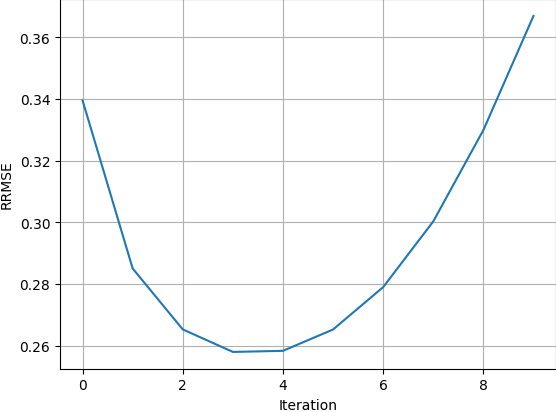
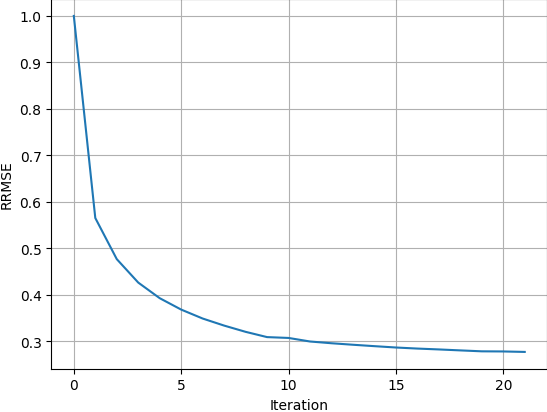
done

diff --git a/q4/q4.py b/q4/q4.py
@@ -54,6 +54,7 @@ def myART(ordered_projections, lr, num_iterations=100, min_t=-255):
     global image1, rrmses, sinogram
     reconstructed_image = np.zeros(image1.shape)
     num_projections = ordered_projections.shape[0]
+    to_break = False
     for iteration in range(num_iterations):
         latest_rrmses = []
         for i in trange(num_projections):
@@ -68,26 +69,31 @@ def myART(ordered_projections, lr, num_iterations=100, min_t=-255):
             ceiled = np.ceil(coords).astype(int)
             wy = frac[0, :]
             wx = frac[1, :]            
-            reconstructed_image[ceiled[0], ceiled[1]] += correction * (1 - wy) * (1 - wx)
-            reconstructed_image[floored[0], ceiled[1]] += correction * wy * (1 - wx)
-            reconstructed_image[ceiled[0], floored[1]] += correction * (1 - wy) * wx
-            reconstructed_image[floored[0], floored[1]] += correction * wy * wx
-            np.clip(reconstructed_image, 0, 1, out=reconstructed_image)
-            # latest_rrmses.append(rrmses[-1])
-            # print(i, rrmses[-1])
+            reconstructed_image[ceiled[0], ceiled[1]] += correction * wy * wx
+            reconstructed_image[floored[0], ceiled[1]] += correction * (1-wy) * wx
+            reconstructed_image[ceiled[0], floored[1]] += correction * wy * (1-wx)
+            reconstructed_image[floored[0], floored[1]] += correction * (1-wy) * (1-wx)
+            np.clip(reconstructed_image, 0, np.inf, out=reconstructed_image)
+            # rrmse_val = rrmse(image1, reconstructed_image)
+            # latest_rrmses.append(rrmse_val)
+            # print(i, rrmse_val)
             # # if len(latest_rrmses) > 100 and max(latest_rrmses[-101:-1]) - min(latest_rrmses[-101:-1]) < 1e-5:
             # #     print("Convergence reached at iteration", iteration, "projection", i)
             # #     break
             # if len(latest_rrmses) > 100 and max(latest_rrmses[-101:-1]) < latest_rrmses[-1]:
             #     print("Convergence reached at iteration", iteration, "projection", i)
             #     break
-        prev_reconstructed_image = reconstructed_image.copy()
-        rrmse_val = rrmse(image1, reconstructed_image)
-        if rrmses and rrmse_val > rrmses[-1]:
-            reconstructed_image = prev_reconstructed_image
+            if i%10000 == 0:
+                prev_reconstructed_image = reconstructed_image.copy()
+                rrmse_val = rrmse(image1, reconstructed_image)
+                if rrmses and rrmse_val > rrmses[-1]:
+                    reconstructed_image = prev_reconstructed_image
+                    to_break = True
+                    break
+                rrmses.append(rrmse_val)
+        if to_break:
             break
-        rrmses.append(rrmse_val)
-        print(f"Iteration {iteration+1}/{num_iterations}, RRMSE: {rrmse_val:.6f}")
+            # print(f"Iteration {iteration+1}/{num_iterations}, RRMSE: {rrmse_val:.6f}")
         # lr /= 10
     # with open('reconstructed_image.txt', 'w') as f:
     #     for row in reconstructed_image:
@@ -103,11 +109,13 @@ t = np.arange(-255, 255, 1)
 thetha = np.arange(0, 180, 1)
 coords = np.array(np.meshgrid(t, thetha)).reshape(2, -1).T
 sinogram = myXrayCTRadonTransform(image1, t, thetha, delta_s=1)
-sinogram += np.random.normal(0, 0.05, size=sinogram.shape) * sinogram
+sinogram += np.random.normal(0, 0.05, size=sinogram.shape) * (np.max(sinogram)-np.min(sinogram))
+np.clip(sinogram, 0, np.inf, out=sinogram)
 import random
-random.shuffle(coords)
+np.random.shuffle(coords)
 
 radon_transform = radon(image1, theta=thetha, circle=False)
+# radon_transform += np.random.normal(0, 0.05, size=radon_transform.shape) * (np.max(radon_transform)-np.min(radon_transform))
 iradon_transform = iradon(radon_transform, theta=thetha, circle=False, filter_name=None)
 iradon_transform = (iradon_transform - iradon_transform.min()) / (iradon_transform.max() - iradon_transform.min())
 print(rrmse(iradon_transform, image1))
@@ -115,6 +123,8 @@ plt.imshow(iradon_transform, cmap='gray')
 plt.axis('off')
 plt.savefig('iradon_transform.png', bbox_inches='tight', pad_inches=0)
 plt.close()
+# print(np.max(radon_transform), np.min(radon_transform))
+# exit()
 
 # load the reconstructed image from reconstructed_image_lambda_0.1.txt
 # with open('reconstructed_image.txt', 'r') as f:
@@ -122,7 +132,7 @@ plt.close()
 # print(rrmse(reconstructed_image, image1))
 
 for lr in range(1, 11):
-    myART(coords, lr=lr/10, num_iterations=10)
+    myART(coords, lr=lr/10, num_iterations=3)
     plt.plot(rrmses)
     plt.xlabel('Iteration')
     plt.ylabel('RRMSE')
@@ -130,3 +140,4 @@ for lr in range(1, 11):
     plt.grid()
     plt.savefig(f'rrmse_plot_lambda_{lr}.png', bbox_inches='tight', pad_inches=0)
     rrmses = []
+    
